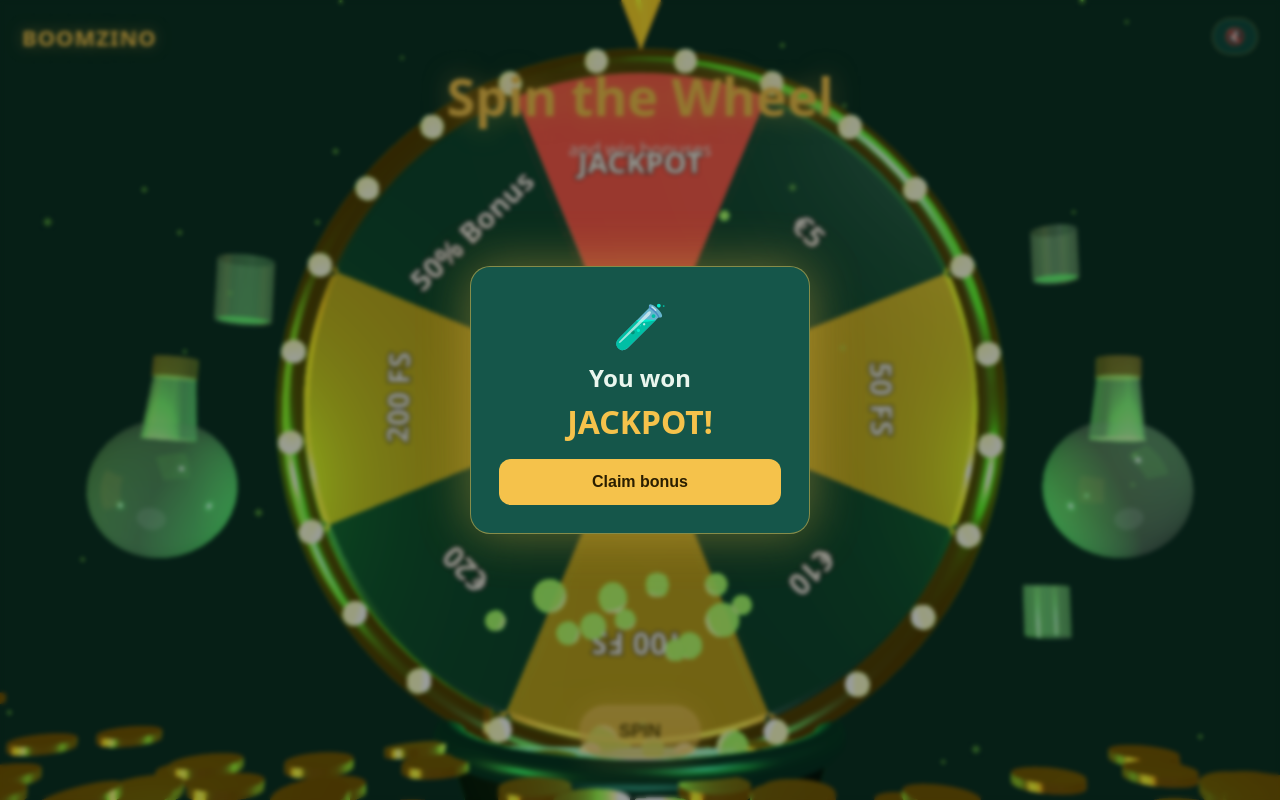
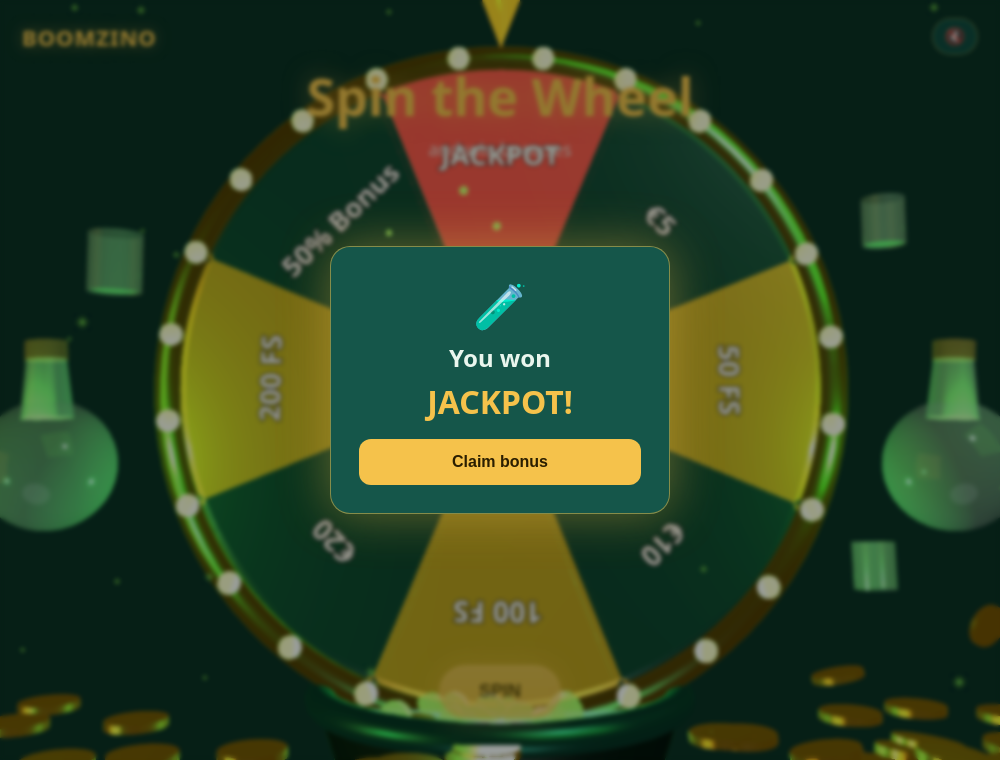
fix: alchemy cauldron eruption remounts Bubbles at higher count; drop dead import

diff --git a/components/r3f/alchemy/Cauldron.tsx b/components/r3f/alchemy/Cauldron.tsx
@@ -65,7 +65,7 @@ export function Cauldron({ erupting = false }: { erupting?: boolean }) {
       </mesh>
       <pointLight position={[0, 0.6, 0]} intensity={erupting ? 80 : 24} distance={7} color="#5BE36A" />
       <group position={[0, 0.25, 0]}>
-        <Bubbles count={erupting ? 90 : 42} radius={1.0} rise={erupting ? 3.4 : 1.7} color="#8BFF5A" />
+        <Bubbles key={erupting ? "erupt" : "idle"} count={erupting ? 90 : 42} radius={1.0} rise={erupting ? 3.4 : 1.7} color="#8BFF5A" />
       </group>
     </group>
   );

diff --git a/components/r3f/alchemy/LabBackdrop.tsx b/components/r3f/alchemy/LabBackdrop.tsx
@@ -1,4 +1,4 @@
-import { Float, Sparkles } from "@react-three/drei";
+import { Float } from "@react-three/drei";
 import * as THREE from "three";
 
 function Beaker({ position, scale = 1 }: { position: [number, number, number]; scale?: number }) {